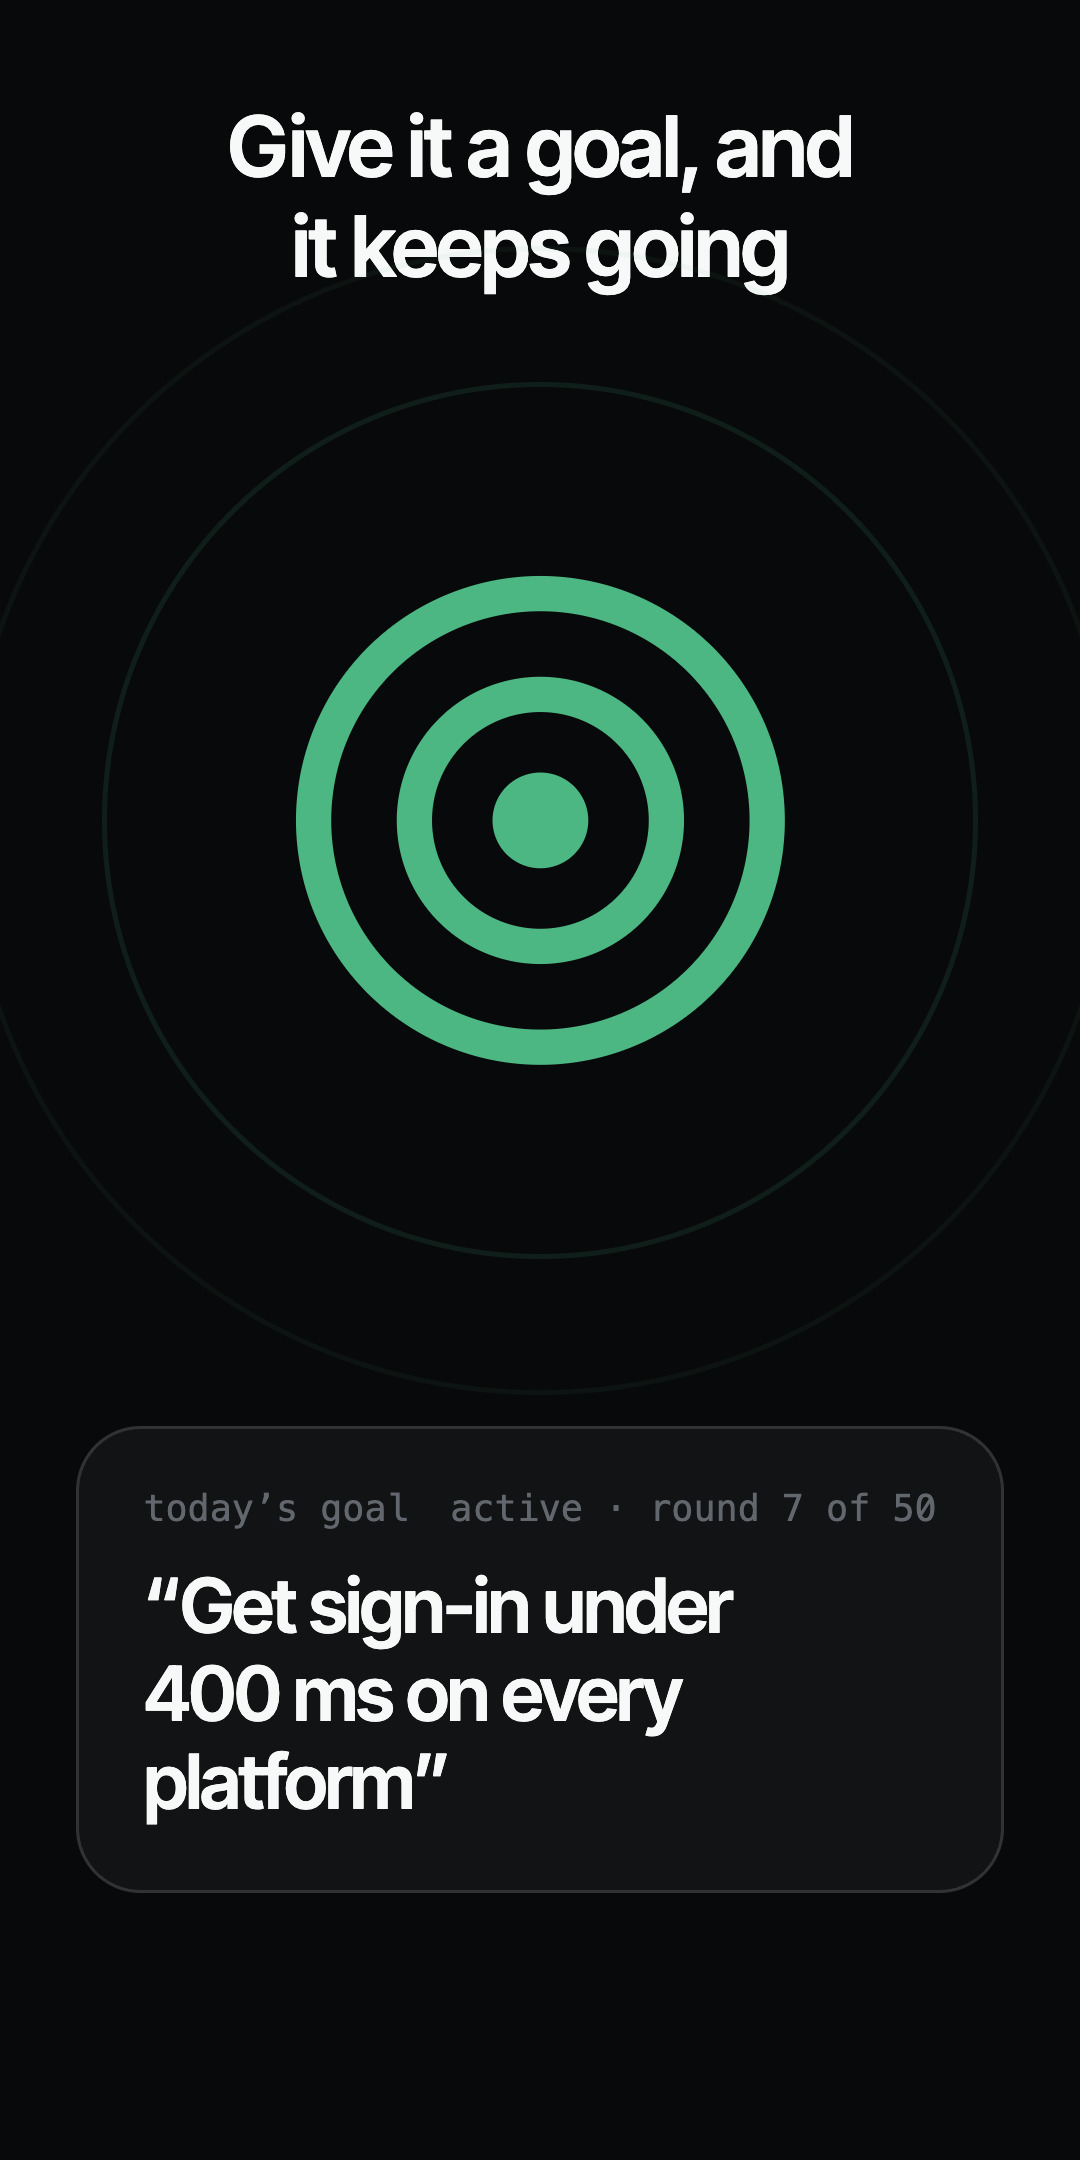
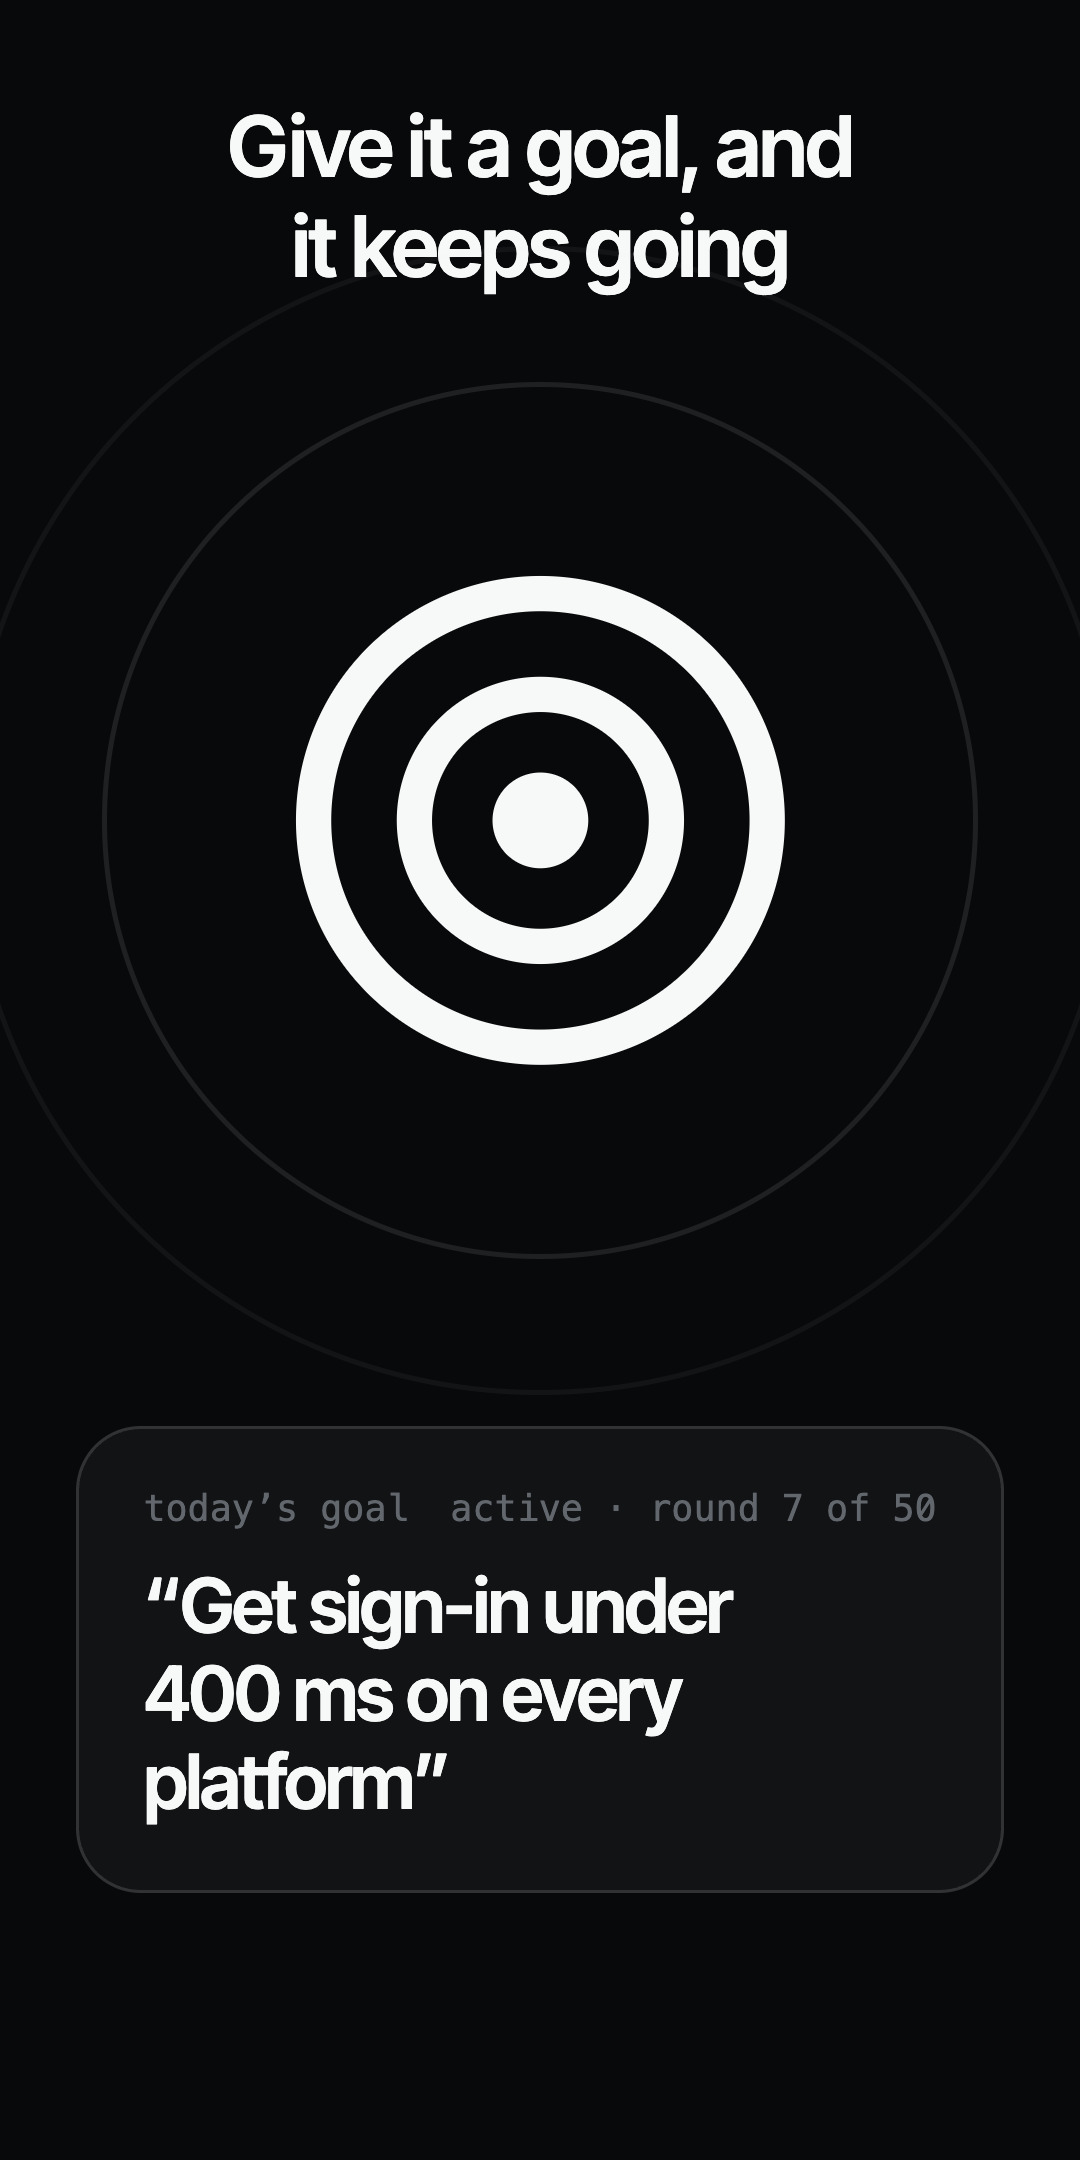
Hex Code store screenshots: draw the goal graphic in white and greys
The target in frame 8 was the app's green, the only colour in the four
graphics. It's now white with grey rings, like the talk button in
frame 2, so the graphics read as one set.

Changed region(s): [[0.275, 0.2481, 0.7333, 0.4963]]

diff --git a/hexcode/store-listing/screenshots/graphics.html b/hexcode/store-listing/screenshots/graphics.html
@@ -58,10 +58,10 @@ const f = q.get("f") || "voice";
 const H = p === "ios" ? 100 * 2868 / 1320 : 200;   // frame height in cqw
 const y = (frac) => (frac * H).toFixed(2) + "cqw";  // vertical position as a fraction of the frame
 
-const GREEN = "#4cb782";
+const INK = "#f7f8f8";
 const mic = `<svg viewBox="0 0 24 24" fill="none" stroke="currentColor" stroke-width="2" stroke-linecap="round" stroke-linejoin="round"><rect x="9" y="3" width="6" height="11" rx="3"/><path d="M5 11a7 7 0 0 0 14 0M12 18v3"/></svg>`;
 const compass = `<svg viewBox="0 0 24 24" fill="none" stroke="#8a8f98" stroke-width="1.8"><circle cx="12" cy="12" r="9"/><path d="M15.5 8.5l-2 5-5 2 2-5z"/></svg>`;
-const target = `<svg viewBox="0 0 24 24" fill="none" stroke="${GREEN}" stroke-width="1.4"><circle cx="12" cy="12" r="9"/><circle cx="12" cy="12" r="5"/><circle cx="12" cy="12" r="1.2" fill="${GREEN}"/></svg>`;
+const target = `<svg viewBox="0 0 24 24" fill="none" stroke="${INK}" stroke-width="1.4"><circle cx="12" cy="12" r="9"/><circle cx="12" cy="12" r="5"/><circle cx="12" cy="12" r="1.2" fill="${INK}"/></svg>`;
 
 // A row of voice bars, loud in the middle: n bars across the full width, centred on cy.
 function bars(cy, maxH, n, seed) {
@@ -113,7 +113,7 @@ function goal() {
   const cy = .38, d = 56;
   const ring = (dd, c) => `<div class="abs" style="left:${50 - dd / 2}cqw;width:${dd}cqw;height:${dd}cqw;top:calc(${y(cy)} - ${dd / 2}cqw);border-radius:50%;border:.5cqw solid ${c}"></div>`;
   return `<div class="abs cap" style="top:${y(.045)}">Give it a goal, and it keeps going</div>` +
-    ring(d * 1.9, "rgba(76,183,130,.06)") + ring(d * 1.45, "rgba(76,183,130,.12)") +
+    ring(d * 1.9, "rgba(233,234,235,.05)") + ring(d * 1.45, "rgba(233,234,235,.1)") +
     `<div class="abs" style="left:${50 - d / 2}cqw;width:${d}cqw;top:calc(${y(cy)} - ${d / 2}cqw)">${target}</div>` +
     `<div class="abs goalbox" style="top:${y(p === "ios" ? .65 : .66)}"><div class="row mono"><span>today’s goal</span><span>active · round 7 of 50</span></div>` +
       `<p>“Get sign‑in under 400&nbsp;ms on every platform”</p></div>`;

diff --git a/hexcode/store-listing/screenshots.md b/hexcode/store-listing/screenshots.md
@@ -27,8 +27,9 @@ The sample artifact itself (`sample-artifact.html`) loads with no server, so
 tapping the tile in a sample session still opens it.
 
 The graphics use only the app's own look: its dark colour tokens, white
-Inter Tight, the artifact tile and goal box as the app draws them, and
-green only where the app uses it (an active goal). The goal in frame 8 is in
+Inter Tight, and the artifact tile and goal box as the app draws them. They
+stay in white and greys, with no accent colour, so the four read as one
+set. The goal in frame 8 is in
 quotes inside the goal box, so it reads as an example of what you might say,
 not as a promise about the app.
 
